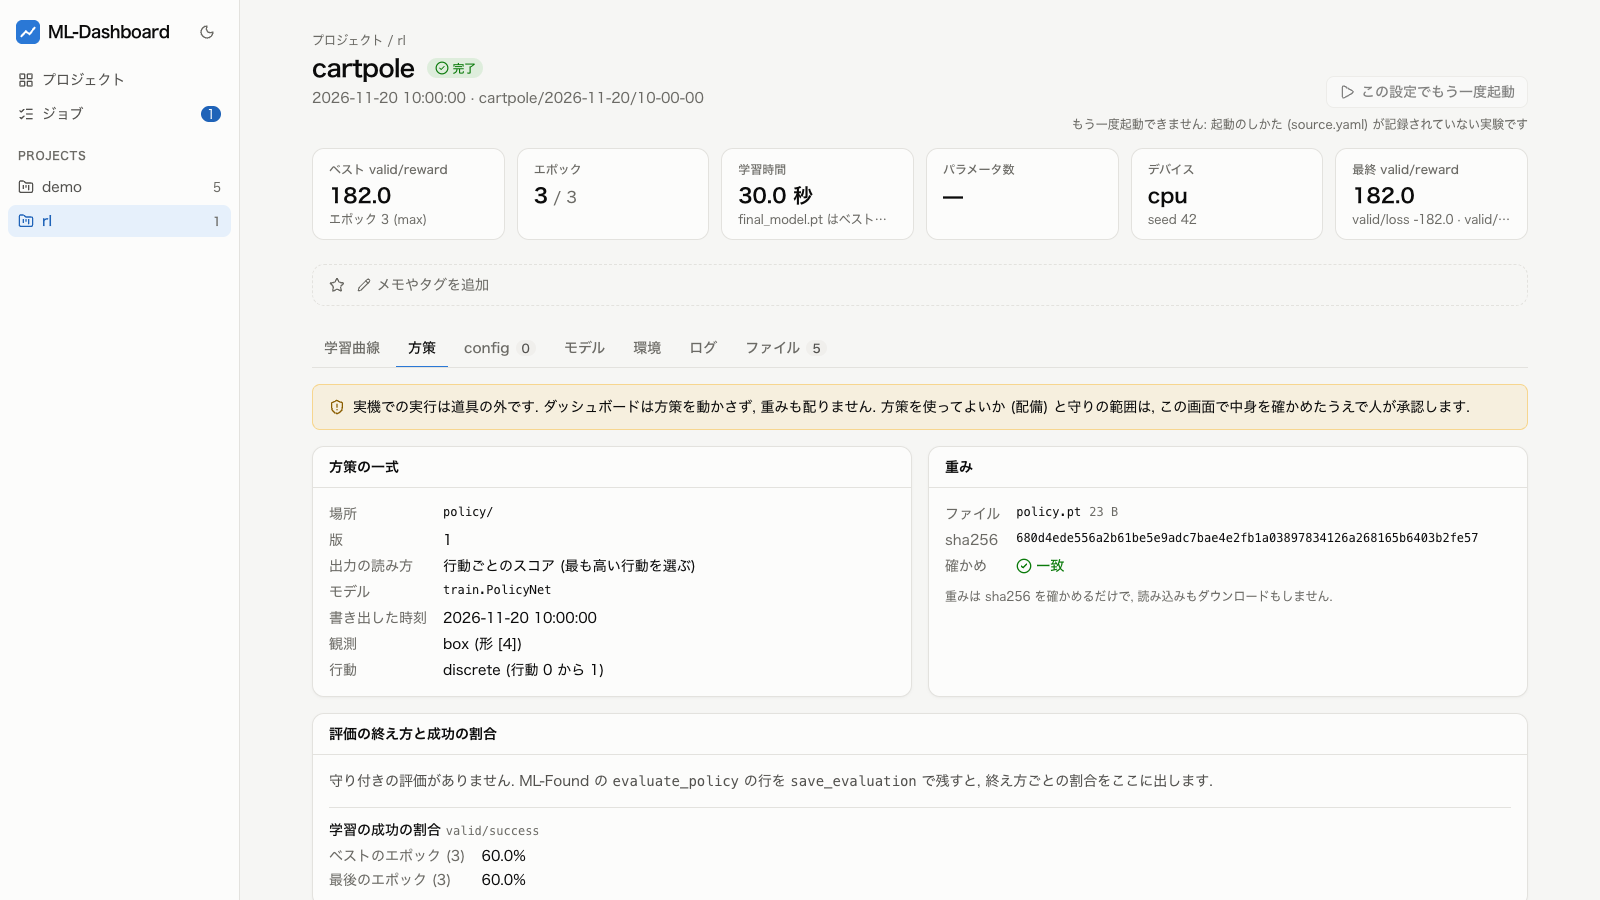
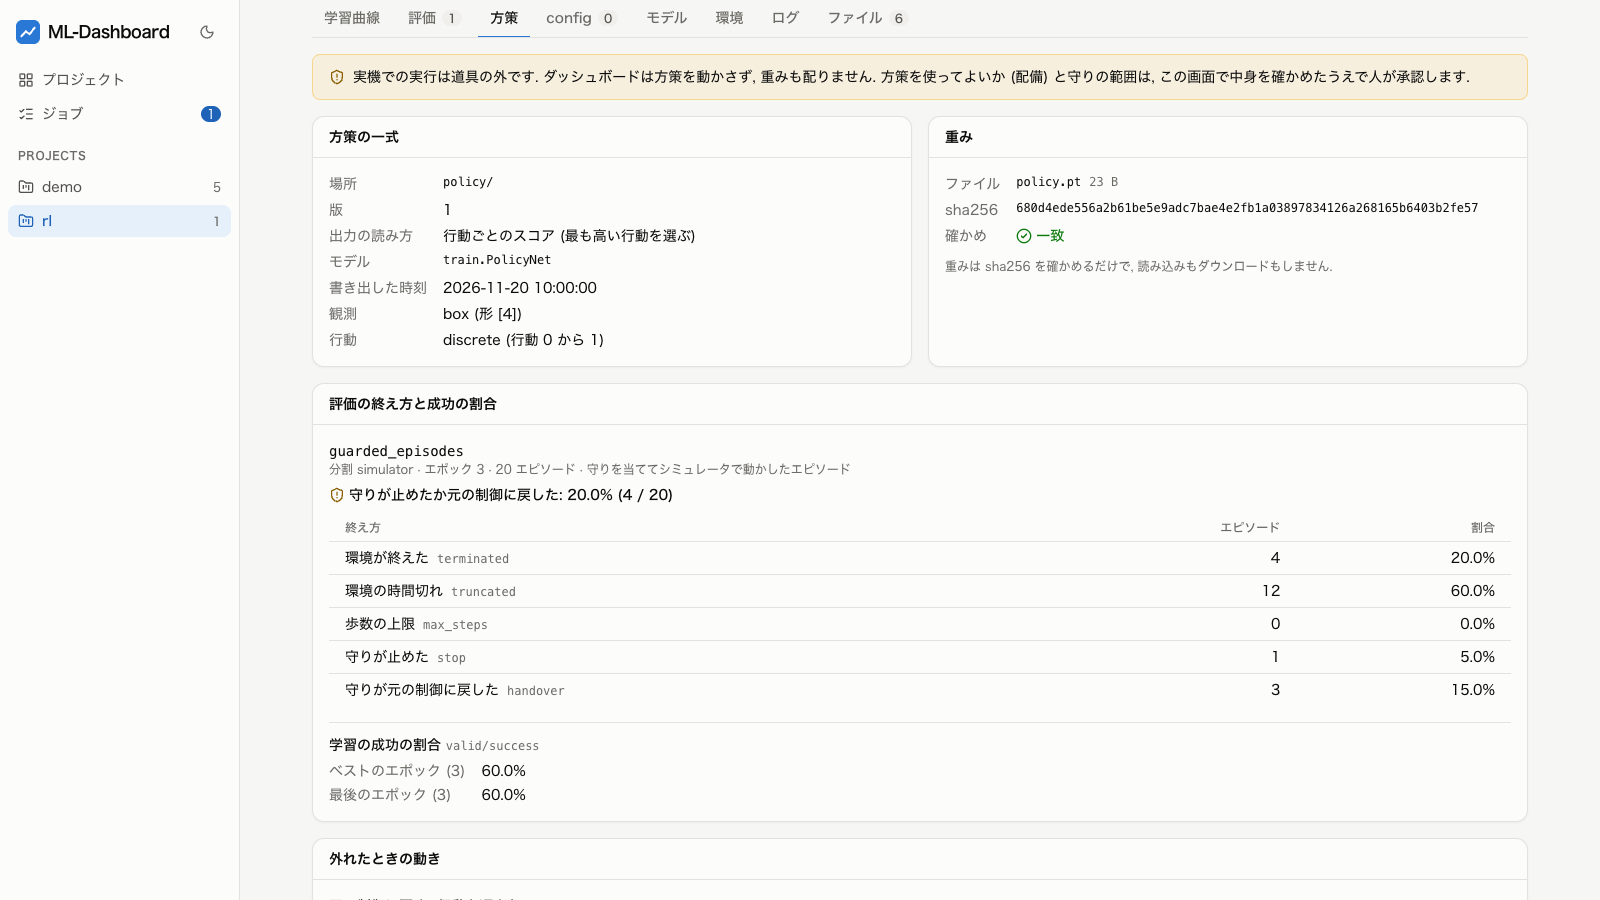
方策のタブの図と e2e に守り付きの評価の割合のカードを入れる

diff --git a/frontend/e2e/rl.spec.ts b/frontend/e2e/rl.spec.ts
@@ -45,6 +45,23 @@ test('強化学習の指標を学習曲線で見て, 方策の守りを確かめ
   await expect(page.getByText('一致', { exact: true })).toBeVisible()
   await expect(page.locator('pre').filter({ hasText: 'CartPole-v1' })).toBeVisible()
 
+  // 守り付きの評価の割合 (evaluations/guarded_episodes.json の 20 エピソード) と,
+  // 学習の成功の割合 (valid/success) のベストと最後のエポック
+  const outcome = page.getByRole('region', { name: '守り付きの評価 guarded_episodes' })
+  await expect(outcome).toContainText('分割 simulator · エポック 3 · 20 エピソード')
+  await expect(outcome.getByText(/守りが止めたか元の制御に戻した: 20\.0%/)).toContainText(
+    '(4 / 20)',
+  )
+  const ends = outcome.getByRole('table', { name: 'guarded_episodes の終え方ごとの割合' })
+  await expect(ends.getByRole('row')).toHaveCount(6)
+  await expect(ends.getByRole('row').nth(1)).toContainText('20.0%')
+  await expect(ends.getByRole('row').nth(2)).toContainText('60.0%')
+  await expect(ends.getByRole('row').nth(4)).toContainText('5.0%')
+  await expect(ends.getByRole('row').nth(5)).toContainText('15.0%')
+  const success = page.getByRole('region', { name: '学習の成功の割合' })
+  await expect(success.getByText('ベストのエポック (3)')).toBeVisible()
+  await expect(success.getByText('60.0%')).toHaveCount(2)
+
   // 重みは配らない: ファイルの一覧にダウンロードのリンクが無く, API も返さない
   await page.getByRole('tab', { name: /ファイル/ }).click()
   await expect(page.getByText('policy/policy.pt は配りません')).toBeAttached()

diff --git a/frontend/e2e/screenshots.ts b/frontend/e2e/screenshots.ts
@@ -210,6 +210,9 @@ try {
   const rlRun = 'cartpole/2026-11-20/10-00-00'
   await page.goto(`/projects/${rlId}/runs/${rlRun}?tab=policy`)
   await page.getByText('一致', { exact: true }).waitFor()
+  await page.getByRole('region', { name: '守り付きの評価 guarded_episodes' }).waitFor()
+  // 守り付きの評価の割合のカードまで写るように, タブの並びを上端へ
+  await showTabs(page)
   await shoot(page, 'policy.png')
   await page.goto(`/projects/${rlId}/requirements`)
   await page.getByRole('region', { name: '追加の依存 cuda' }).waitFor()

diff --git a/TODO.md b/TODO.md
@@ -31,12 +31,6 @@
 - 終わりの条件: エポックを選ぶと, そのエポックの学習用と検証用の指標が見本の横に出る
 - つながり: 無し
 
-### 方策のタブの図と e2e に守り付きの評価
-- 何を: `docs/images/policy.png` を割合のカードが写る形で撮り直し, e2e の fixture (`e2e/fixtures/rl`) に守り付きの評価を足して, 方策のタブの割合を通しで確かめる
-- なぜ: 今の図と e2e は割合のカードを写さず, 確かめていない
-- 終わりの条件: 図に割合のカードが写り, e2e が割合のカードの値を確かめる
-- つながり: 無し
-
 ### 実験の詳細に Scheduler の主な引数を出す
 - 何を: backend の `OptimizerInfo` に `scheduler_params` (ML-Found の `run.json` の `optimizers` の項目) を足し, `openapi.json` と `schema.d.ts` を作り直す. 実験の詳細のモデルのタブ (`RunTabs.tsx`. Optimizer が 1 つの実験の欄と, 名前付きの Optimizer の表の両方) に, Scheduler のクラス名の下で引数を表にする. 中に Scheduler を持つもの (`schedulers`) は入れ子で出す. `lr_lambdas` の要素と `scale_fn` は文字か `{function, args, keywords}` の辞書 (`function` も文字か辞書) で, `groups` はパラメータグループごと, `milestones` は並び. `"inf"` などの文字はそのまま出す
 - なぜ: 同じ条件で学習し直すときに, 自分で渡した Scheduler の引数を探す手間を無くすため

diff --git a/docs/GUIDE.md b/docs/GUIDE.md
@@ -155,7 +155,7 @@ config の `model.spec` を使う実験では, 見出しの下に学習に使っ
 
 強化学習 (ML-Found の `ml_found.rl`) の実験も同じ画面で見る. エピソードごとの報酬の和 (`reward`), 歩数 (`length`), 安全の違反の数 (`violations`), 成功の割合 (`success`) は, 他の指標と同じく学習曲線に出る. 監視する指標は `valid/reward` (大きいほど良い).
 
-![方策のタブ: 守り, 外れたときの動き, 観測と行動の範囲, 重みの sha256](images/policy.png)
+![方策のタブ: 方策の一式, 重みの sha256, 守り付きの評価の終え方ごとの割合と学習の成功の割合](images/policy.png)
 
 > **方策を実機で動かすのは道具の外**
 > ダッシュボードは方策を動かさず, 重みも配らない. 方策を使ってよいか (配備) と守りの範囲は, 方策のタブで中身を確かめたうえで人が承認する.

diff --git a/README.md b/README.md
@@ -26,7 +26,7 @@ ML-Found が実験ごとに残すディレクトリ (`history.csv`, `config.yaml
     <td><b>ジョブ</b>. 進み具合を見て, エポックの区切り, エポックの途中, すぐの 3 通りで止める</td>
   </tr>
   <tr>
-    <td><img src="docs/images/policy.png" alt="方策のタブ: 強化学習の方策の一式の守り, 外れたときの動き, 観測と行動の範囲, 重みの sha256 の一致"></td>
+    <td><img src="docs/images/policy.png" alt="方策のタブ: 強化学習の方策の一式, 重みの sha256 の一致, 守り付きの評価の終え方ごとの割合と学習の成功の割合"></td>
     <td><img src="docs/images/requirements.png" alt="追加の依存: 強化学習, MuJoCo, ROS 2, CUDA が入っているかと入れ方のカード"></td>
   </tr>
   <tr>
